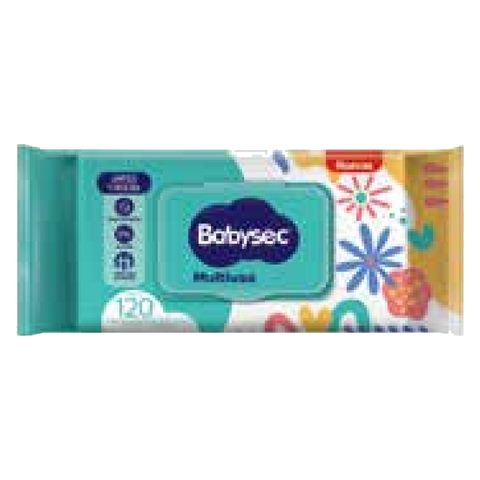
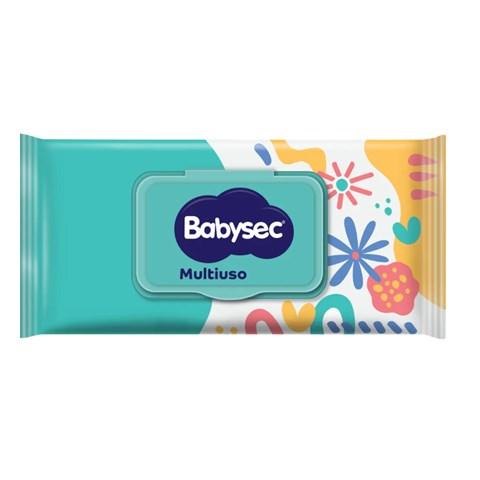
Softys: vuelven Maxwipe 1506385 y 1506286, fotos nuevas y nueva foto de Babysec Multiuso

Changed region(s): [[0.0312, 0.2812, 0.9688, 0.7188]]

diff --git a/catalogo-softys.html b/catalogo-softys.html
@@ -112,6 +112,7 @@ const SEGMENTOS = [
   ['Pañales',             d => /^(PL|PA[ÑN]AL|BABYSEC|PLBABYSEC)(?=\s)/i.test(d) && !/COTIDIAN/i.test(d)],
   ['Toallitas húmedas',   d => /^(TH\s|TOALLAS HUM)/i.test(d)],
   ['Toallas femeninas',   d => /^(TF|TD|PD)\s/i.test(d) || /COTIDIAN|LADYSOFT/i.test(d)],
+  ['Paños de limpieza',   d => /MAXWIPE/i.test(d)],
   ['Otros',               d => true],
 ];
 // Sublineas dentro de un segmento: [nombre, color de la linea, regla]. La ultima regla toma el resto.
@@ -126,7 +127,7 @@ const esc = s => String(s).replace(/[&<>"]/g, c => ({'&':'&amp;','<':'&lt;','>':
 const fecha = iso => iso ? iso.split('-').reverse().join('/') : '';
 const limpiar = d => d.replace(/^(PL|TH|PH|RC|SE|PO|PÑ|TF|TD|PD)\s+/i,'').replace(/\s+/g,' ').trim();
 const marca = d => (d.match(/BABYSEC|HIGIENOL|ELITE|SUSSEX|NOBLE|LADYSOFT|COTIDIAN|CARILINA/i) || ['SOFTYS'])[0].toUpperCase();
-const FOTOS_V = '4';   // cambiar cuando se reemplazan las fotos, para que el navegador no muestre las viejas
+const FOTOS_V = '5';   // cambiar cuando se reemplazan las fotos, para que el navegador no muestre las viejas
 const norm = s => String(s).normalize('NFD').replace(/[̀-ͯ]/g,'').toLowerCase();
 // Segmentos tildados: ninguno = se ven todos; uno o varios = solo esos (se combinan con el buscador)
 const elegidos = new Set();
